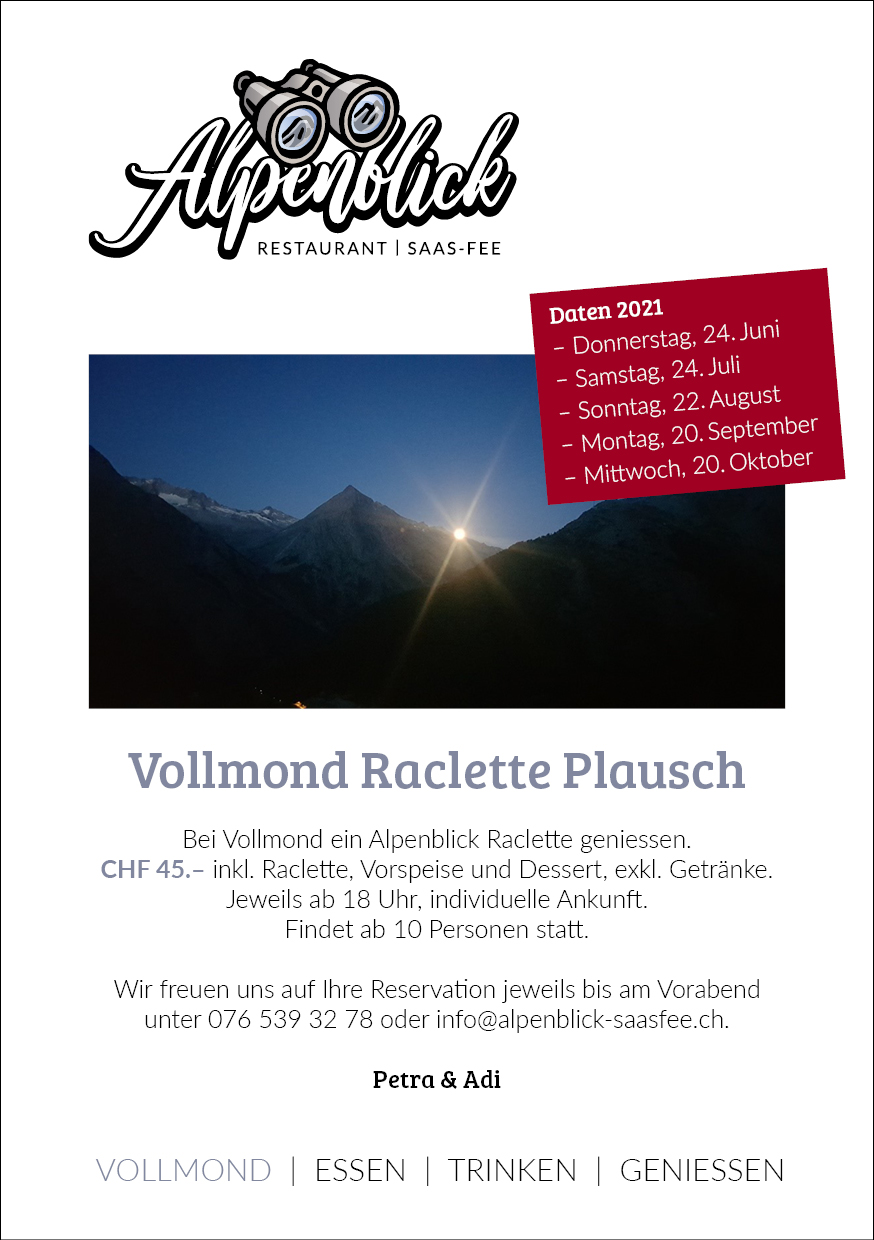
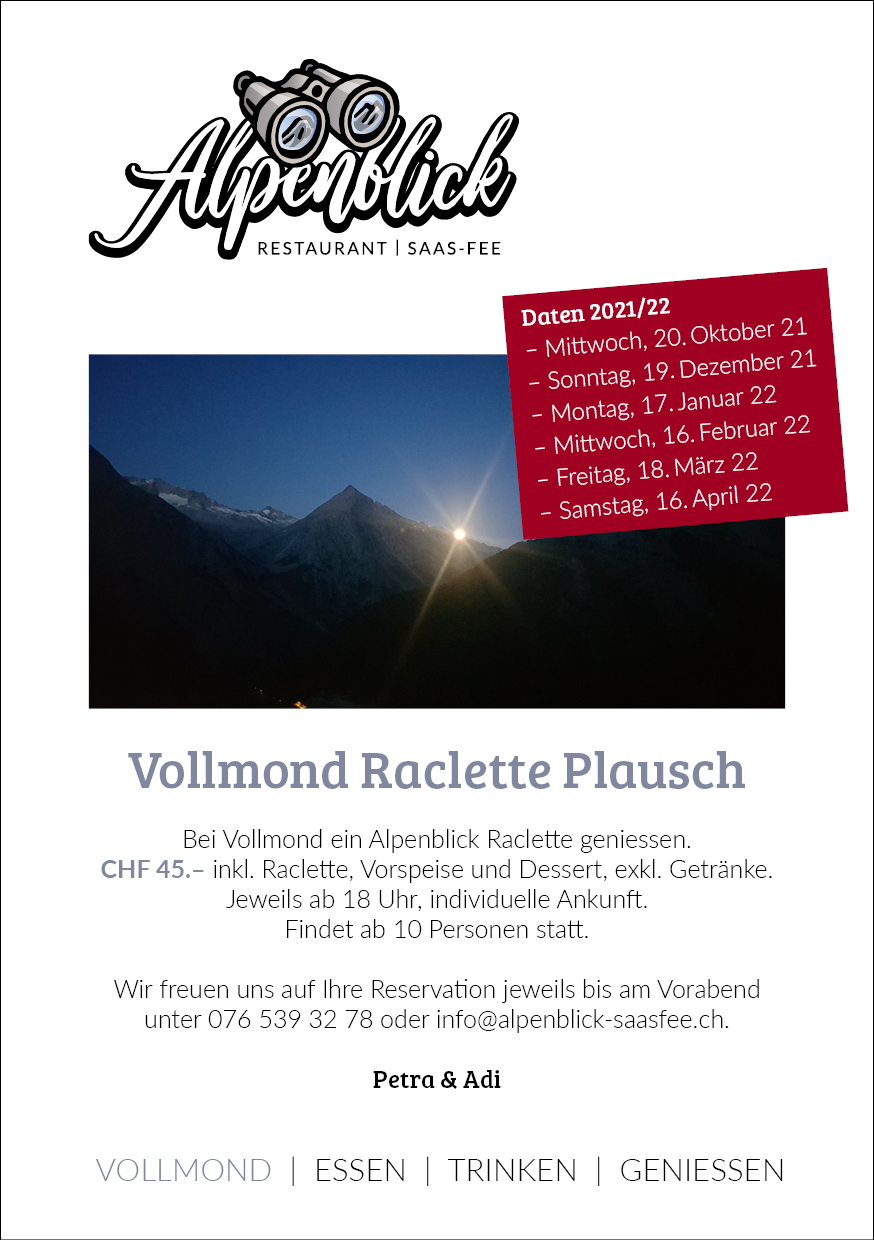
update homepage

Changed region(s): [[0.5561, 0.2145, 0.9886, 0.4597]]

diff --git a/index.html b/index.html
@@ -122,14 +122,16 @@ Unser kleines aber feines <a href="images/Alpenblick_Flyer_Uebernachten_2021.jpg
 
 <ul>
 <li>Jeden Freitag: <a href="images/Alpenblick_Flyer_Freitag_Abend_Menu_2020.jpg" target="_blank"> Freitag Abend Überraschungsmenu</a>
-<!-- * Donnerstag, 24. Juni 2021: <a href="images/Alpenblick_Flyer_Vollmond_Raclette_Plausch.jpg" target="_blank"> Vollmond Raclette Plausch</a> -->
-<!-- * Samstag, 24. Juli 2021: <a href="images/Alpenblick_Flyer_Vollmond_Raclette_Plausch.jpg" target="_blank"> Vollmond Raclette Plausch</a> -->
-<!-- * Sonntag, 1. August 2021: <a href="images/Alpenblick_Flyer_1_August_2021.jpg" target="_blank"> Schweizer Nationalfeiertag</a> -->
-<!-- * Sonntag, 8. August 2021: Ziegenfest Sass-Fee (Genaue Informationen folgen) -->
-<!-- * Sonntag, 22. August 2021: <a href="images/Alpenblick_Flyer_Vollmond_Raclette_Plausch.jpg" target="_blank"> Vollmond Raclette Plausch</a> --></li>
-<li>Dienstag, 7. bis Samstag, 11. September 2021: <a href="https://www.saas-fee.ch/de/heartbeat-festival" target="_blank"> Saas Fee Heartbeat Festival</a></li>
+<!-- * Sonntag, 1. August 2021: <a href="images/Alpenblick_Flyer_1_August_2021.jpg" target="_blank"> Schweizer Nationalfeiertag</a> --></li>
 <li>Montag, 20. September 2021: <a href="images/Alpenblick_Flyer_Vollmond_Raclette_Plausch.jpg" target="_blank"> Vollmond Raclette Plausch</a></li>
 <li>Mittwoch, 20. Oktober 2021: <a href="images/Alpenblick_Flyer_Vollmond_Raclette_Plausch.jpg" target="_blank"> Vollmond Raclette Plausch</a></li>
+<li>Sonntag, 24. Oktober 2021: Ende Sommersaison 2021</li>
+<li>Mittwoch, 15. Dezember 2021: Start Wintersaison 2021 / 2022</li>
+<li>Sonntag, 19. Dezember 2021: <a href="images/Alpenblick_Flyer_Vollmond_Raclette_Plausch.jpg" target="_blank"> Vollmond Raclette Plausch</a></li>
+<li>Montag, 17. Januar 2022: <a href="images/Alpenblick_Flyer_Vollmond_Raclette_Plausch.jpg" target="_blank"> Vollmond Raclette Plausch</a></li>
+<li>Mittwoch, 16. Februar 2022: <a href="images/Alpenblick_Flyer_Vollmond_Raclette_Plausch.jpg" target="_blank"> Vollmond Raclette Plausch</a></li>
+<li>Freitag, 18. März 2022: <a href="images/Alpenblick_Flyer_Vollmond_Raclette_Plausch.jpg" target="_blank"> Vollmond Raclette Plausch</a></li>
+<li>Samstag, 16. April 2022: <a href="images/Alpenblick_Flyer_Vollmond_Raclette_Plausch.jpg" target="_blank"> Vollmond Raclette Plausch</a></li>
 </ul>
 
 <h2 id="auf-geschenksuche-warum-nicht">Auf Geschenksuche? Warum nicht &hellip;</h2>
